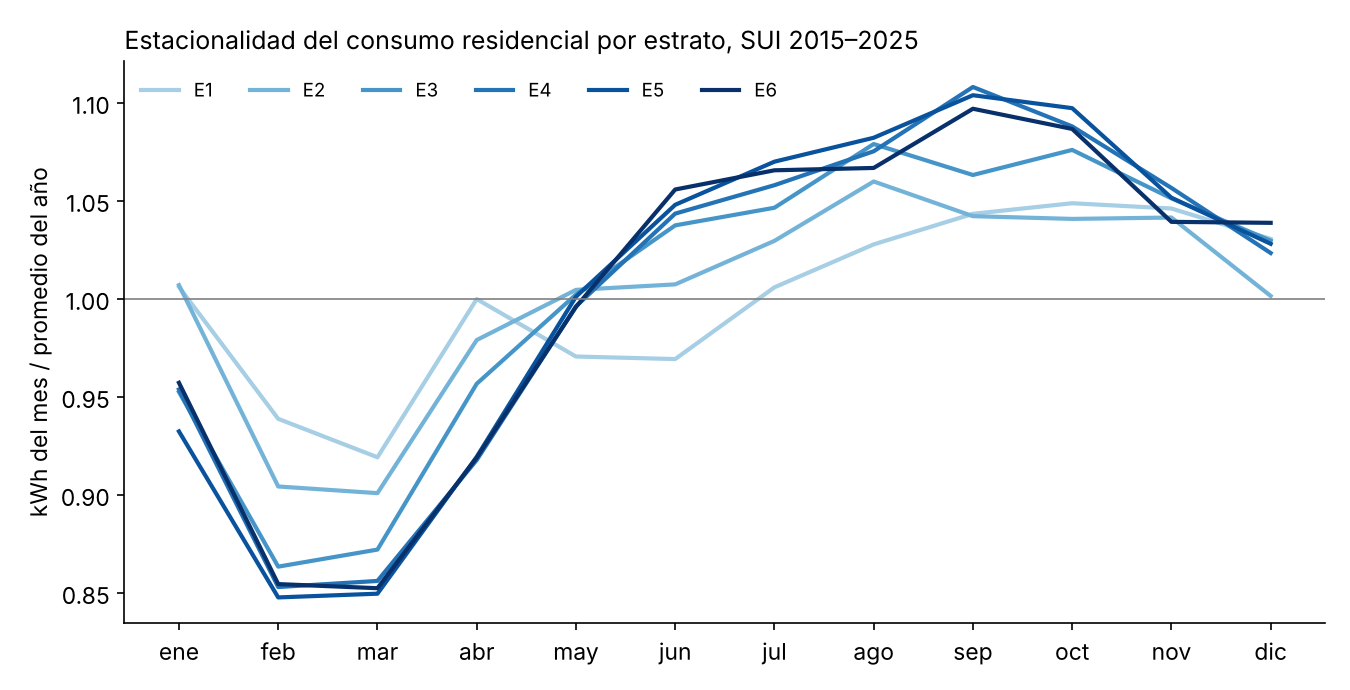
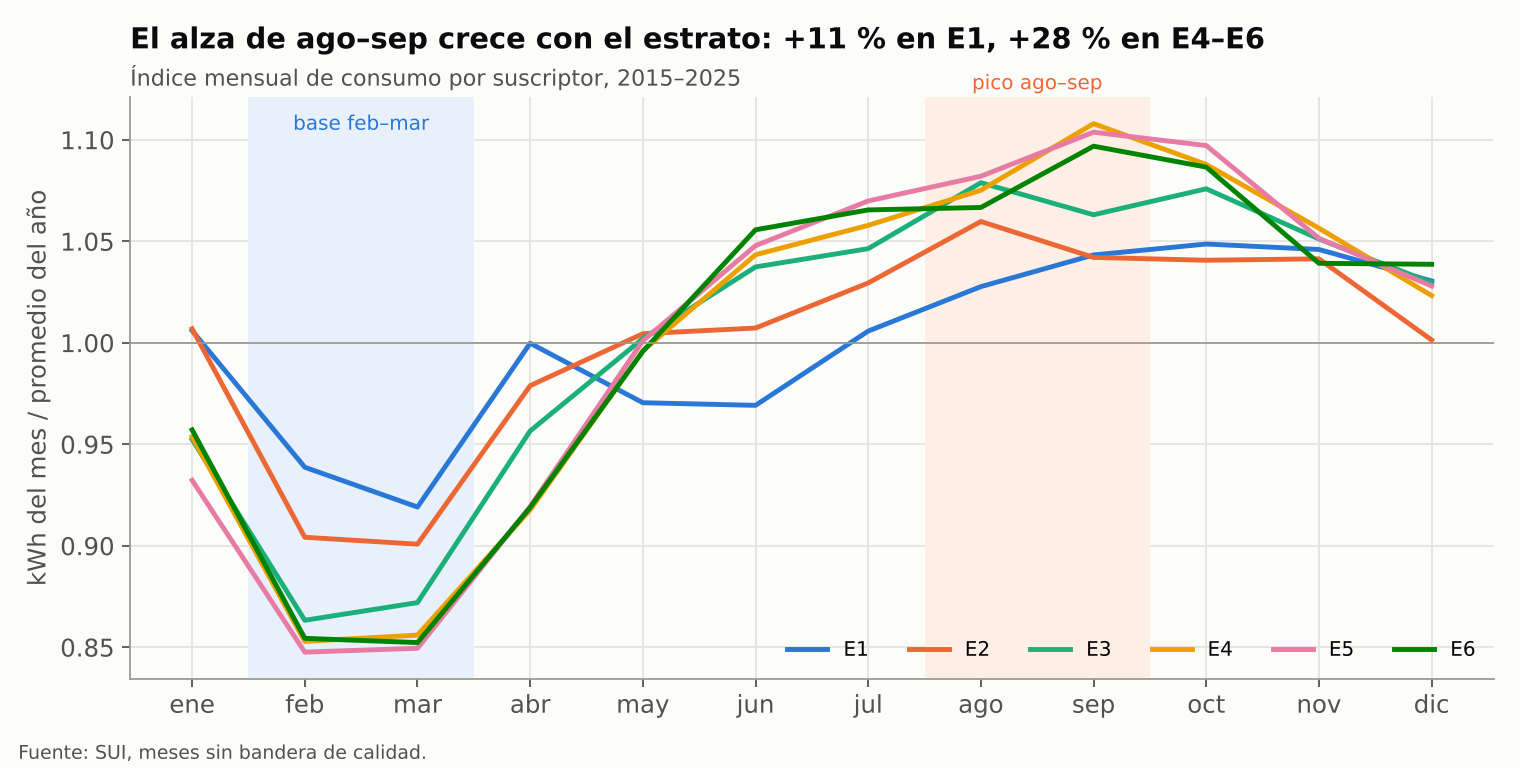
Más gráficas (19, en color) y tema con acentos de color
Claude-Session: https://claude.ai/code/session_01MRhL8MhMXNHDyWpfTimHRx

Changed region(s): [[0.0, 0.0304, 0.9956, 1.0], [0.84, 0.8217, 0.9644, 0.8522], [0.4978, 0.487, 0.5289, 0.5174]]

diff --git a/_static/custom.css b/_static/custom.css
@@ -1,0 +1,12 @@
+:root{--acento:#2a78d6;--acento2:#eb6834;--acento3:#1baf7a;}
+html[data-theme="light"]{--pst-color-primary:#2a78d6;--pst-color-secondary:#eb6834;--pst-color-link:#2a78d6;--pst-color-link-hover:#eb6834;}
+html[data-theme="dark"]{--pst-color-primary:#3987e5;--pst-color-secondary:#d95926;--pst-color-link:#6aa6ef;}
+.bd-article h1{color:var(--pst-color-primary);border-bottom:4px solid var(--acento2);padding-bottom:.3em;}
+.bd-article h2{color:var(--pst-color-primary);border-left:5px solid var(--acento3);padding-left:.5em;}
+.bd-article h3{color:var(--acento2);}
+.bd-article table thead th{background:#2a78d6;color:#fff;}
+.bd-article table tbody tr:nth-child(even){background:rgba(42,120,214,.06);}
+.bd-sidebar-primary .navbar-brand{border-bottom:4px solid var(--acento2);}
+nav.bd-links li.toctree-l1.current>a{color:var(--acento2)!important;border-left:3px solid var(--acento2);}
+figure img{border-radius:8px;box-shadow:0 2px 10px rgba(0,0,0,.08);}
+.admonition.note{border-color:var(--acento3);}

diff --git a/03_resultados.md b/03_resultados.md
@@ -53,6 +53,11 @@ Ajuste por estrato (cambio del logit por año, EE, p, sobredispersión): E1 +0,1
 
 ## 4.4 Uso (ECV 2019), sin cambios
 
+```{figure} figuras/horas_ac.png
+:width: 100%
+Distribución de horas de uso del A/C.
+```
+
 - Horas de AC (hogares con AC): mediana 8 h/día en todos los estratos; media 7,2; 17 % usa 12 h o más, 3,4 % más de 12 h, 1 % 24 h (7 % en E6). Tipo: 92,5 % mini-split, 3,1 % ventana, 4,4 % central (17,7 % en E6).
 - Ventilador: con AC 9,8 h/día, sin AC 11,1 (razón 0,88). Por estrato, razón con/sin AC: E1 0,97; E2 0,90; E3 0,96; E4 1,07; E5–E6 sin datos suficientes (7 y 1 hogares sin AC). Se excluyeron 9 respuestas > 24 h. Recomendación: p_c casi nulo (≈ 0,05) en E1–E4.
 - Número de equipos: la ECV 2019 no lo pregunta. Prior desde horas y AC central. **Falta la fracción climatizada de CEELA** (la propuesta cita: habitación en VIS y E3–E4, toda la vivienda en E5–E6).
@@ -73,7 +78,23 @@ Ajuste por estrato (cambio del logit por año, EE, p, sobredispersión): E1 +0,1
 
 Modelo M2 2024 (techo + estrato), usado en la imputación: b_asbesto = −1,061, b_zinc/otro = −1,954. Todos los coeficientes en `Logit_ECV2024_modelos.csv`.
 
+
+```{figure} figuras/techos_estrato.png
+:width: 100%
+Material del techo por grupo de estrato.
+```
+
+```{figure} figuras/logit_or.png
+:width: 100%
+Razones de momios del modelo M3, ECV 2024.
+```
+
 ## 4.6 Posición frente a la cubierta (catastro) e imputación de P(AC)
+
+```{figure} figuras/pac_tipo_edificio.png
+:width: 100%
+P(A/C) imputada por tipo de edificio, variante C.
+```
 
 | Estrato | Casa | Último piso | Intermedio | 1.er piso con vivienda encima | En edificio 4+ | P(AC) 2024 edificio 4+ | P(AC) 2024 hasta 3 pisos |
 | --- | --- | --- | --- | --- | --- | --- | --- |
@@ -90,6 +111,11 @@ Ciudad 2024 con el catastro: 41,3 % (≈ 137.500 viviendas con AC), frente a 41,
 P(AC) media por posición (2024): casas con cubierta propia 27,8 %, primeros pisos 42,1 %, últimos pisos 50,9 %, intermedios 64,7 %. **Corregido en v3:** la diferencia es sobre todo efecto del estrato (estandarizada: 36,9 / 43,1 / 43,9 / 50,3 %) y el resto viene del supuesto de imputación, no de una observación.
 
 ## 4.7 SUI 2015–2025 (kWh/mes por suscriptor, meses válidos)
+
+```{figure} figuras/sui_suscriptores.png
+:width: 100%
+Suscriptores residenciales por estrato.
+```
 
 | Año | E1 | E2 | E3 | E4 | E5 | E6 | Total | GWh/año | Suscriptores dic |
 | --- | --- | --- | --- | --- | --- | --- | --- | --- | --- |
@@ -108,5 +134,10 @@ P(AC) media por posición (2024): casas con cubierta propia 27,8 %, primeros pis
 Estacionalidad (2019–2025; recalculada con 2015–2025 en v3, sin cambios relevantes): alza ago–sep vs feb–mar +11 % (E1) a +28 % (E6), total +19 %. Ningún mes de 2015–2018 tiene bandera de calidad.
 
 ## 4.8 Ocupación (ENUT/GEIH), sin cambios
+
+```{figure} figuras/geih_trabajo_casa.png
+:width: 100%
+Trabajo en la propia vivienda.
+```
 
 En 82–86 % de los hogares alguien está en casa todo el día hábil; un ocupado pasa ≈ 7,7 h fuera. Jornada escolar: 57,6 % mañana, 24,9 % tarde, 11,1 % única, 5,1 % noche. Trabajo en casa (GEIH): 15,6 % de los ocupados en E1 a 28,5 % en E6.

diff --git a/02_analisis.md b/02_analisis.md
@@ -16,9 +16,51 @@ Los datos muestran una ciudad donde casi todos los hogares tienen ventilador y n
 | Consumo real | El consumo sube en la temporada caliente y más en los estratos con más A/C | 297 kWh/mes por suscriptor (2025); E6 692; alza ago.–sep. frente a feb.–mar. de 11 % (E1) a 29 % (E5) | SUI 2015–2025 |
 | Gasto | La factura de un hogar con A/C es mayor a igual estrato | 2024, mediana sin/con A/C: E1–E2 104.000 / 140.000; E3–E4 215.000 / 324.000; E5–E6 276.000 / 620.000 COP/mes | ECV 2024 |
 
+## Las cifras en gráficas
+
+```{figure} figuras/ac_estrato_2019_2024.png
+:width: 100%
+Tenencia de A/C por estrato en las dos olas con más detalle.
+```
+
+```{figure} figuras/ac_quintil.png
+:width: 100%
+El ingreso pesa aun dentro del estrato.
+```
+
+```{figure} figuras/ventilador_con_sin_ac.png
+:width: 100%
+A/C y ventilador se usan juntos.
+```
+
+```{figure} figuras/neveras_tamano.png
+:width: 100%
+Tamaño de la nevera por estrato.
+```
+
+```{figure} figuras/neveras_edad.png
+:width: 100%
+Antigüedad de las neveras.
+```
+
+```{figure} figuras/catastro_posicion.png
+:width: 100%
+Tipo de vivienda frente a la cubierta.
+```
+
+```{figure} figuras/enut_horas.png
+:width: 100%
+Presencia en casa según el tipo de persona.
+```
+
+```{figure} figuras/sui_kwh_estrato.png
+:width: 100%
+Nivel de consumo por estrato.
+```
+
 ```{figure} figuras/estacionalidad_sui.png
 :width: 100%
-Índice mensual de consumo por suscriptor (kWh del mes / promedio del año), meses sin bandera de calidad, 2015–2025.
+Patrón estacional del consumo.
 ```
 
 ## Qué implican para el modelo

diff --git a/05_ajustes_v3.md b/05_ajustes_v3.md
@@ -22,6 +22,12 @@ donde C = 76 segmentos. Para un estrato se usa la misma fórmula con y y w igual
 | Estrato 6 | 20 | 4 | 100 % | — | — | — |
 | Ciudad (postestratificada) | 646 | 76 | 41,4 % | ± 3,3 | ± 4,1 | 1,54 |
 
+
+```{figure} figuras/efecto_diseno.png
+:width: 100%
+Semiancho del IC 95 % con y sin el diseño muestral.
+```
+
 - Para el ventilador el efecto es casi nulo (deff 0,98 en la ciudad); para la nevera es 1,45.
 - Las olas 2018–2023 y 2025 no se procesaron con su diseño; se les aplica deff = 1,5 dividiendo su n por 1,5.
 - El estrato 4 sale con deff < 1 por azar: con 12 segmentos ese cálculo es inestable.
@@ -66,7 +72,7 @@ La diferencia entre A y B en la ciudad llega a 2,9 puntos en 2015 y se reduce a 
 
 ```{figure} figuras/tenencia_ciudad_variantes.png
 :width: 100%
-ECV 2018–2025 (sin 2020) y suscriptores SUI de diciembre.
+Variantes A, B y C para la ciudad.
 ```
 
 ## 4. Probabilidad de A/C por vivienda del catastro (variante C)

diff --git a/intro.md b/intro.md
@@ -8,7 +8,7 @@ La tenencia de aire acondicionado (A/C) que usará el modelo cambia a la **varia
 
 ```{figure} figuras/tenencia_estrato_C.png
 :width: 100%
-Tenencia de A/C por estrato. Líneas: variante C con su intervalo del 95 %; puntos: tasas observadas en cada ola de la ECV (2020 no se usa en el ajuste).
+Serie de tenencia que usa el modelo (variante C). La ola 2020 no entra en el ajuste.
 ```
 
 ## Cómo leer este sitio
